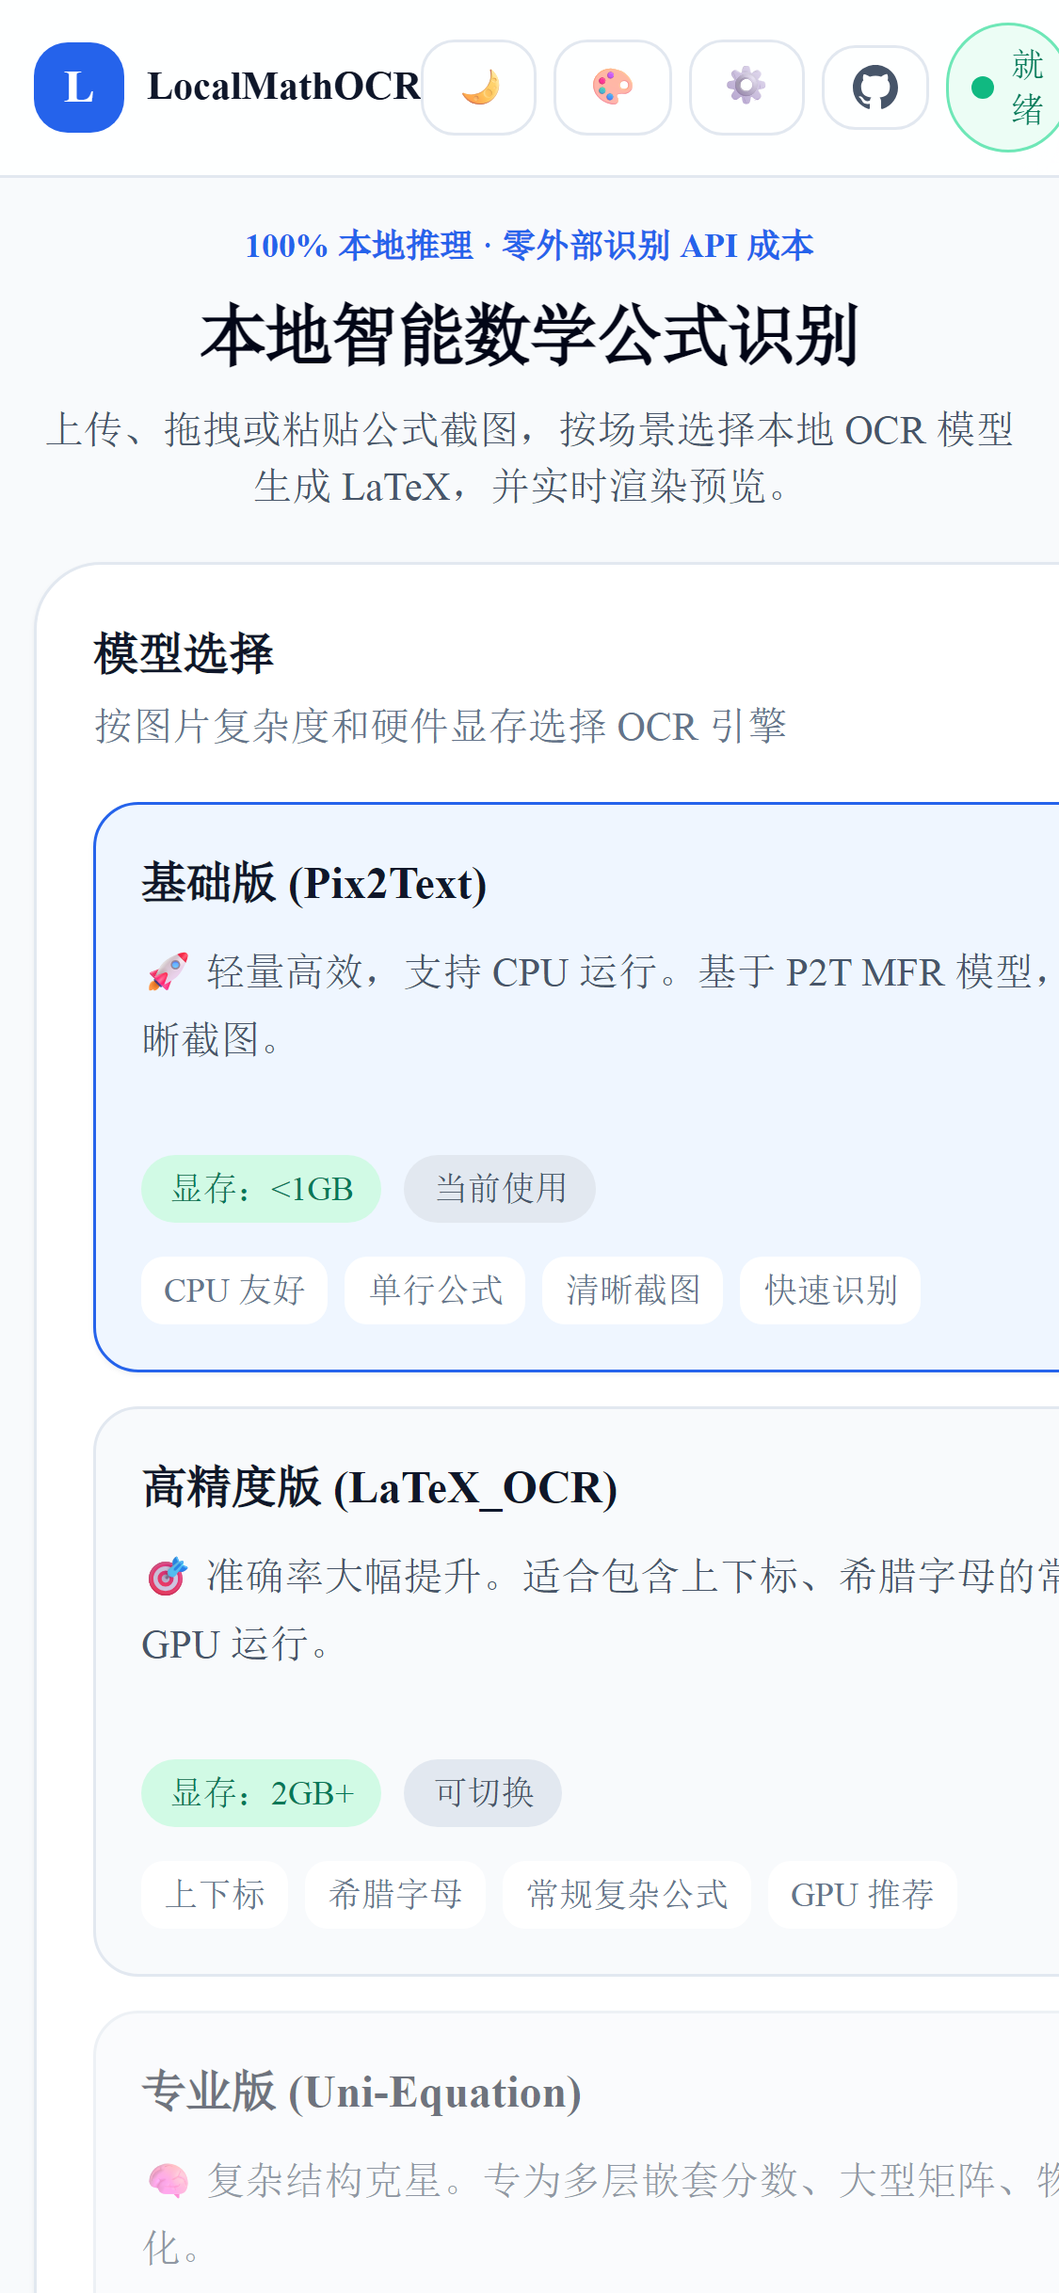
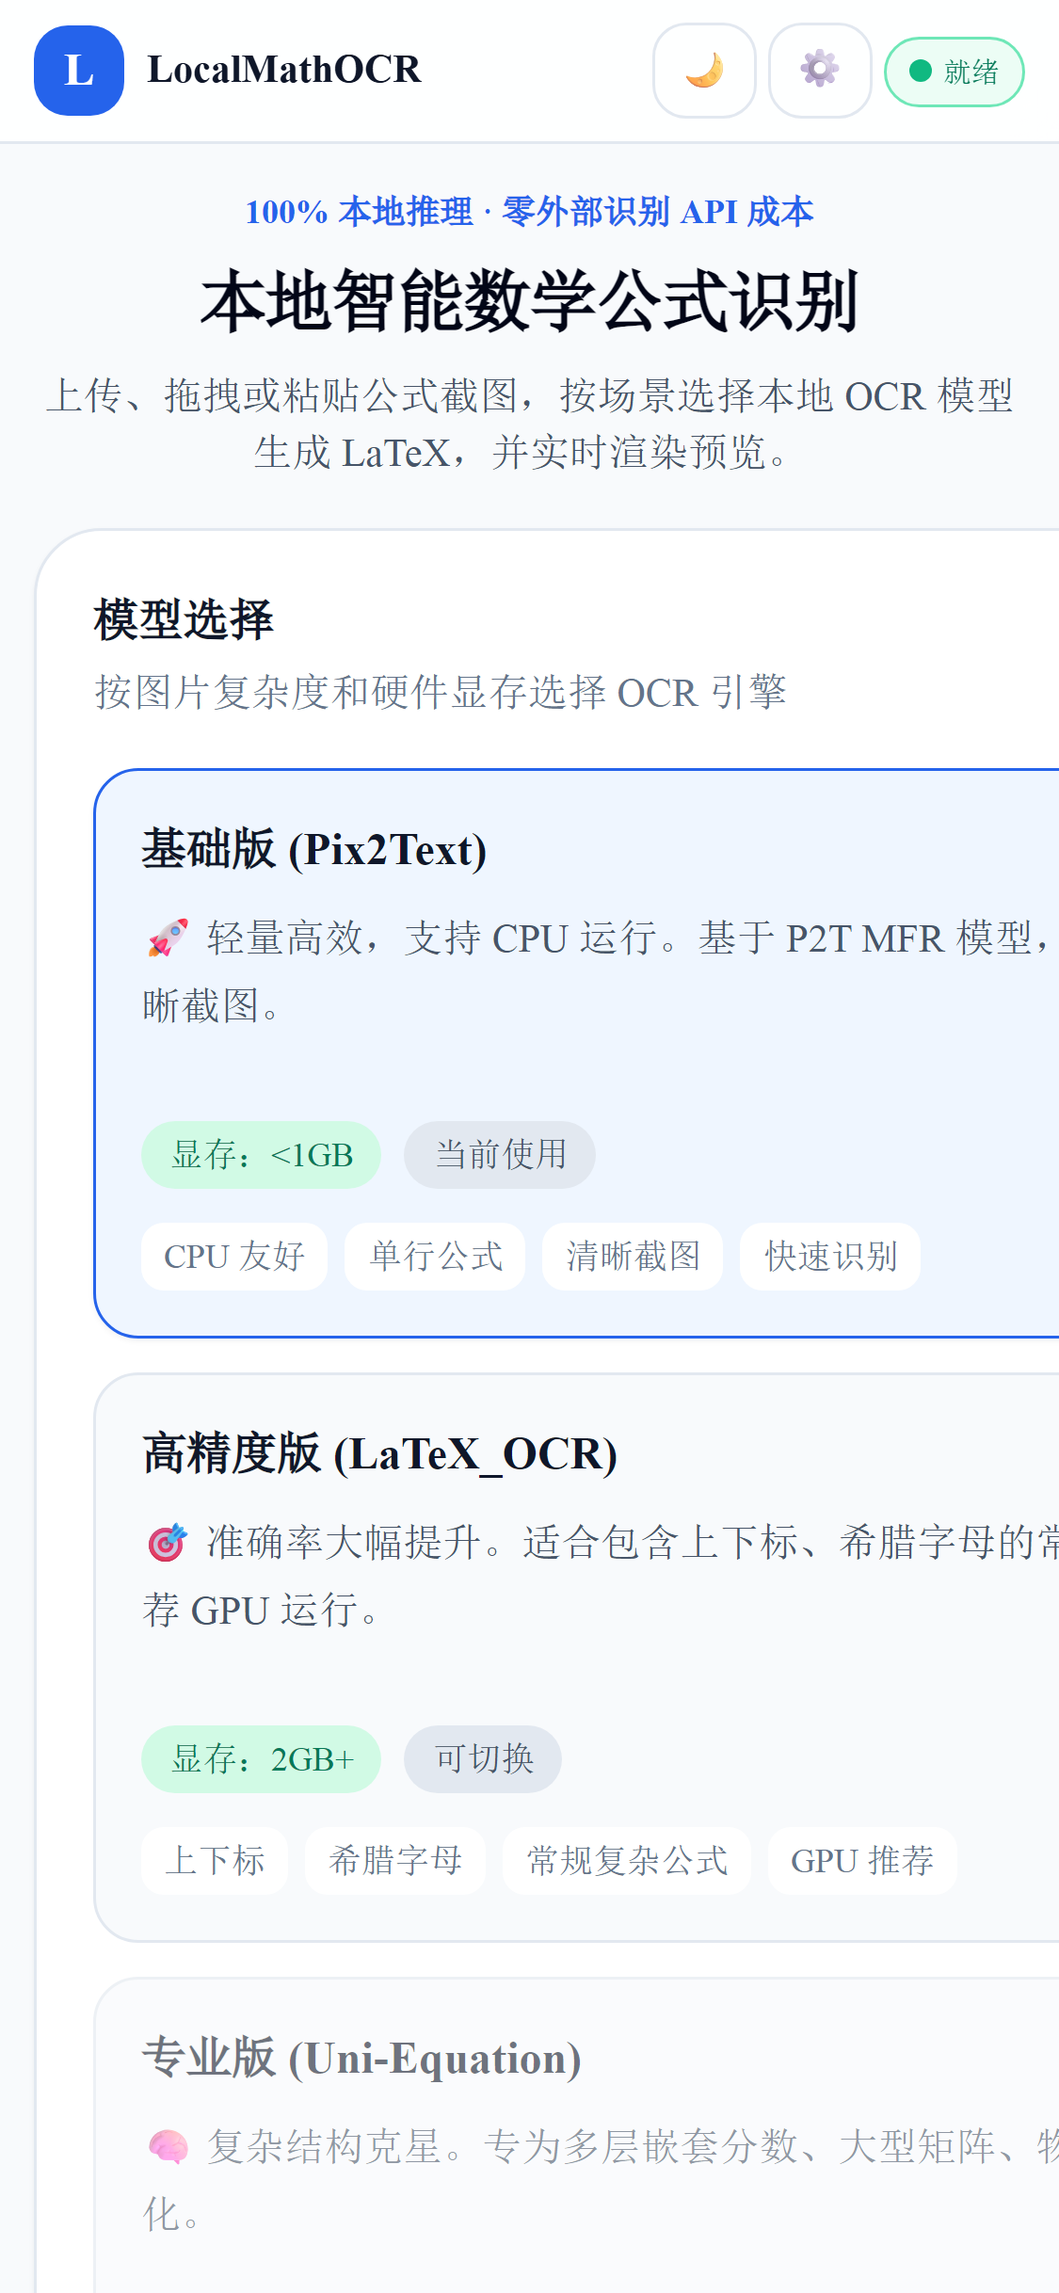
fix: mobile responsiveness for all components
- Header: hide theme/GitHub on mobile, shrink buttons and status badge
- FormulaWorkspace: flex-wrap toolbar, hide title on mobile, tighter gaps
- SettingsPanel: responsive HF mirror input width
- HistorySidebar: responsive padding, reduced max-height on mobile
- ComputePanel: smaller font sizes for operation buttons
- ModelSelector: responsive padding
- Remove outdated preview-export.png/svg and preview-main.svg
- Update screenshots for mobile layout

diff --git a/frontend/src/components/ComputePanel.tsx b/frontend/src/components/ComputePanel.tsx
@@ -1,0 +1,126 @@
+import { useState } from 'react';
+import katex from 'katex';
+import { computeFormula, type ComputeResult } from '../services/api';
+
+type Props = {
+  latex: string;
+  onInsert: (latex: string) => void;
+  onToast: (message: string) => void;
+};
+
+type Operation = {
+  id: string;
+  label: string;
+  icon: string;
+};
+
+const OPERATIONS: Operation[] = [
+  { id: 'expand', label: '展开', icon: '⊕' },
+  { id: 'factor', label: '因式分解', icon: '⊗' },
+  { id: 'simplify', label: '化简', icon: '≡' },
+  { id: 'solve', label: '求解', icon: 'x=' },
+  { id: 'diff', label: '求导', icon: "f'" },
+  { id: 'integrate', label: '积分', icon: '∫' },
+  { id: 'limit', label: '极限', icon: 'lim' },
+  { id: 'series', label: '级数', icon: '∑' },
+];
+
+function renderResult(latex: string): string {
+  try {
+    return katex.renderToString(latex, { throwOnError: false, displayMode: true, strict: 'ignore' });
+  } catch {
+    return latex;
+  }
+}
+
+export function ComputePanel({ latex, onInsert, onToast }: Props) {
+  const [result, setResult] = useState<ComputeResult | null>(null);
+  const [resultHtml, setResultHtml] = useState('');
+  const [computing, setComputing] = useState(false);
+  const [error, setError] = useState('');
+
+  async function handleCompute(op: string) {
+    if (!latex.trim()) {
+      onToast('请先输入公式');
+      return;
+    }
+    setComputing(true);
+    setError('');
+    setResult(null);
+    try {
+      const res = await computeFormula(latex, op);
+      setResult(res);
+      setResultHtml(renderResult(res.result_latex));
+    } catch (err) {
+      const msg = err instanceof Error ? err.message : '计算失败';
+      setError(msg);
+    } finally {
+      setComputing(false);
+    }
+  }
+
+  return (
+    <section className="rounded-3xl border border-slate-200 bg-white shadow-sm dark:border-slate-800 dark:bg-slate-900">
+      <div className="border-b border-slate-200 px-4 py-3 dark:border-slate-800 sm:px-5 sm:py-4">
+        <h3 className="text-sm font-bold text-slate-900 dark:text-white sm:text-base">数学计算</h3>
+      </div>
+      <div className="p-4 sm:p-5">
+        <div className="grid grid-cols-4 gap-2 sm:grid-cols-8">
+          {OPERATIONS.map((op) => (
+            <button
+              key={op.id}
+              onClick={() => handleCompute(op.id)}
+              disabled={computing}
+              className="flex flex-col items-center gap-1 rounded-xl border border-slate-200 px-2 py-2.5 text-xs transition hover:border-blue-300 hover:bg-blue-50 hover:text-blue-700 disabled:opacity-50 dark:border-slate-700 dark:hover:border-blue-600 dark:hover:bg-blue-900/30 dark:hover:text-blue-300"
+            >
+              <span className="font-mono text-sm sm:text-base">{op.icon}</span>
+              <span className="text-[10px] text-slate-600 dark:text-slate-300 sm:text-xs">{op.label}</span>
+            </button>
+          ))}
+        </div>
+
+        {computing && (
+          <div className="mt-4 flex items-center gap-2 text-sm text-slate-500">
+            <div className="h-4 w-4 animate-spin rounded-full border-2 border-blue-500 border-t-transparent" />
+            计算中...
+          </div>
+        )}
+
+        {error && (
+          <div className="mt-4 rounded-xl border border-red-200 bg-red-50 p-3 text-sm text-red-700">
+            {error}
+          </div>
+        )}
+
+        {result && (
+          <div className="mt-4 rounded-xl border border-slate-200 bg-slate-50 p-4 dark:border-slate-700 dark:bg-slate-800">
+            <div className="mb-2 text-xs font-medium text-slate-500 dark:text-slate-400">
+              {OPERATIONS.find((o) => o.id === result.operation)?.label ?? result.operation} 结果
+            </div>
+            <div
+              className="overflow-x-auto text-lg"
+              dangerouslySetInnerHTML={{ __html: resultHtml }}
+            />
+            <div className="mt-3 flex gap-2">
+              <button
+                onClick={() => onInsert(result.result_latex)}
+                className="rounded-lg bg-blue-600 px-3 py-1.5 text-xs font-medium text-white hover:bg-blue-700"
+              >
+                插入到编辑器
+              </button>
+              <button
+                onClick={async () => {
+                  await navigator.clipboard.writeText(result.result_latex);
+                  onToast('LaTeX 已复制');
+                }}
+                className="rounded-lg bg-slate-200 px-3 py-1.5 text-xs font-medium text-slate-700 hover:bg-slate-300 dark:bg-slate-700 dark:text-slate-200 dark:hover:bg-slate-600"
+              >
+                复制 LaTeX
+              </button>
+            </div>
+          </div>
+        )}
+      </div>
+    </section>
+  );
+}

diff --git a/frontend/src/components/Header.tsx b/frontend/src/components/Header.tsx
@@ -52,12 +52,12 @@ export function Header({ modelStatus, models, selectedModelId, dark, onToggleDar
           <a href="#recognize" className="hover:text-primary">识别</a>
           <a href="#editor" className="hover:text-primary">编辑器</a>
         </nav>
-        <div className="flex items-center gap-1.5 sm:gap-2">
-          <button onClick={onToggleDark} className="rounded-xl border border-slate-200 px-2.5 py-1.5 text-sm dark:border-slate-700 dark:text-slate-100 sm:px-3 sm:py-2">
+        <div className="flex items-center gap-1 sm:gap-2">
+          <button onClick={onToggleDark} className="rounded-xl border border-slate-200 px-2 py-1.5 text-sm dark:border-slate-700 dark:text-slate-100 sm:px-3 sm:py-2">
             {dark ? '☀' : '🌙'}
           </button>
 
-          <div ref={themeRef} className="relative">
+          <div ref={themeRef} className="relative hidden sm:block">
             <button
               onClick={() => setShowTheme(!showTheme)}
               className="rounded-xl border border-slate-200 px-2.5 py-1.5 text-sm text-slate-600 hover:border-primary hover:text-primary dark:border-slate-700 dark:text-slate-300"
@@ -103,7 +103,7 @@ export function Header({ modelStatus, models, selectedModelId, dark, onToggleDar
 
           <button
             onClick={onOpenSettings}
-            className="rounded-xl border border-slate-200 px-2.5 py-1.5 text-sm dark:border-slate-700 dark:text-slate-300"
+            className="rounded-xl border border-slate-200 px-2 py-1.5 text-sm dark:border-slate-700 dark:text-slate-300 sm:px-2.5 sm:py-2"
             title="配置设置"
           >
             ⚙
@@ -113,13 +113,13 @@ export function Header({ modelStatus, models, selectedModelId, dark, onToggleDar
             href="https://github.com/xiaoyeTC/LocalMathOCR"
             target="_blank"
             rel="noopener noreferrer"
-            className="rounded-xl border border-slate-200 px-2.5 py-1.5 text-sm text-slate-600 hover:border-primary hover:text-primary dark:border-slate-700 dark:text-slate-300"
+            className="hidden rounded-xl border border-slate-200 px-2.5 py-1.5 text-sm text-slate-600 hover:border-primary hover:text-primary dark:border-slate-700 dark:text-slate-300 sm:block"
             title="GitHub"
           >
             <svg className="h-4 w-4" viewBox="0 0 16 16" fill="currentColor"><path d="M8 0C3.58 0 0 3.58 0 8c0 3.54 2.29 6.53 5.47 7.59.4.07.55-.17.55-.38 0-.19-.01-.82-.01-1.49-2.01.37-2.53-.49-2.69-.94-.09-.23-.48-.94-.82-1.13-.28-.15-.68-.52-.01-.53.63-.01 1.08.58 1.23.82.72 1.21 1.87.87 2.33.66.07-.52.28-.87.51-1.07-1.78-.2-3.64-.89-3.64-3.95 0-.87.31-1.59.82-2.15-.08-.2-.36-1.02.08-2.12 0 0 .67-.21 2.2.82.64-.18 1.32-.27 2-.27.68 0 1.36.09 2 .27 1.53-1.04 2.2-.82 2.2-.82.44 1.1.16 1.92.08 2.12.51.56.82 1.27.82 2.15 0 3.07-1.87 3.75-3.65 3.95.29.25.54.73.54 1.48 0 1.07-.01 1.93-.01 2.2 0 .21.15.46.55.38A8.013 8.013 0 0016 8c0-4.42-3.58-8-8-8z"/></svg>
           </a>
 
-          <div className={`flex items-center gap-1.5 rounded-full border px-2 py-1.5 text-xs font-medium sm:gap-2 sm:px-3 sm:py-2 ${isActive ? 'border-emerald-300 bg-emerald-50 text-emerald-700 dark:border-emerald-700 dark:bg-emerald-950/50 dark:text-emerald-300' : 'border-slate-200 bg-slate-50 text-slate-600 dark:border-slate-700 dark:bg-slate-800 dark:text-slate-300'}`} title={modelStatus.message}>
+          <div className={`flex items-center gap-1 rounded-full border px-2 py-1 text-[10px] font-medium sm:gap-2 sm:px-3 sm:py-2 sm:text-xs ${isActive ? 'border-emerald-300 bg-emerald-50 text-emerald-700 dark:border-emerald-700 dark:bg-emerald-950/50 dark:text-emerald-300' : 'border-slate-200 bg-slate-50 text-slate-600 dark:border-slate-700 dark:bg-slate-800 dark:text-slate-300'}`} title={modelStatus.message}>
             <span className={`inline-block h-2 w-2 shrink-0 rounded-full ${statusClass}`} />
             <span className="hidden sm:inline">{modelName}</span>
             <span className="hidden text-slate-400 dark:text-slate-500 sm:inline">·</span>

diff --git a/frontend/src/components/FormulaWorkspace.tsx b/frontend/src/components/FormulaWorkspace.tsx
@@ -476,9 +476,9 @@ export function FormulaWorkspace({ value, onChange, onCopy, onToast }: Props) {
       <style>{'.formula-preview-font .katex, .formula-preview-font .katex * { font-family: var(--formula-font-family) !important; }'}</style>
 
       {/* Toolbar */}
-      <div className="flex items-center gap-2 border-b border-slate-200 px-3 py-2 dark:border-slate-800 sm:px-5 sm:py-3">
-        <div className="flex items-center gap-2">
-          <h3 className="text-sm font-bold text-slate-900 dark:text-white sm:text-base">公式工作区</h3>
+      <div className="flex flex-wrap items-center gap-1.5 border-b border-slate-200 px-2.5 py-2 dark:border-slate-800 sm:flex-nowrap sm:gap-2 sm:px-5 sm:py-3">
+        <div className="flex items-center gap-1.5 sm:gap-2">
+          <h3 className="hidden text-sm font-bold text-slate-900 dark:text-white sm:block sm:text-base">公式工作区</h3>
           <div className="flex rounded-lg border border-slate-200 dark:border-slate-700">
             <button onClick={() => setMode('visual')} className={`px-2 py-1 text-xs font-medium transition-colors ${mode === 'visual' ? 'bg-blue-600 text-white' : 'text-slate-600 hover:bg-slate-100 dark:text-slate-300 dark:hover:bg-slate-800'}`}>可视化</button>
             <button onClick={() => setMode('source')} className={`px-2 py-1 text-xs font-medium transition-colors ${mode === 'source' ? 'bg-blue-600 text-white' : 'text-slate-600 hover:bg-slate-100 dark:text-slate-300 dark:hover:bg-slate-800'}`}>源码</button>
@@ -502,7 +502,7 @@ export function FormulaWorkspace({ value, onChange, onCopy, onToast }: Props) {
           )}
         </div>
 
-        <div className="ml-auto flex shrink-0 items-center gap-1.5 sm:gap-2">
+        <div className="ml-auto flex shrink-0 items-center gap-1 sm:gap-2">
           <select value={exportFont} onChange={(e) => setExportFont(e.target.value)} className="hidden rounded-lg border border-slate-200 bg-white px-2 py-1.5 text-xs text-slate-700 dark:border-slate-700 dark:bg-slate-800 dark:text-slate-200 sm:block sm:text-sm" title="导出字体">
             {EXPORT_FONTS.map((f) => <option key={f.value} value={f.value}>{f.label}</option>)}
           </select>

diff --git a/frontend/src/components/SettingsPanel.tsx b/frontend/src/components/SettingsPanel.tsx
@@ -222,7 +222,7 @@ export function SettingsPanel({ onClose }: Props) {
                       <input type="text" value={String(settings.p2t_mfr_model ?? '')} onChange={(e) => setSettings((s) => s ? { ...s, p2t_mfr_model: e.target.value } : s)} className="w-32 rounded-lg border border-slate-200 bg-white px-2 py-1.5 text-right text-sm dark:border-slate-600 dark:bg-slate-700 dark:text-slate-100" />
                     </SettingRow>
                     <SettingRow label="HF 镜像" desc="HuggingFace 镜像地址" icon="🌐">
-                      <input type="text" value={String(settings.hf_endpoint ?? '')} onChange={(e) => setSettings((s) => s ? { ...s, hf_endpoint: e.target.value } : s)} className="w-48 rounded-lg border border-slate-200 bg-white px-2 py-1.5 text-right text-sm dark:border-slate-600 dark:bg-slate-700 dark:text-slate-100" />
+                      <input type="text" value={String(settings.hf_endpoint ?? '')} onChange={(e) => setSettings((s) => s ? { ...s, hf_endpoint: e.target.value } : s)} className="w-28 rounded-lg border border-slate-200 bg-white px-2 py-1.5 text-right text-xs dark:border-slate-600 dark:bg-slate-700 dark:text-slate-100 sm:w-48 sm:text-sm" />
                     </SettingRow>
                     <SettingRow label="启用 Pandoc" desc="支持 Word/PDF/HTML 格式导出" icon="📄">
                       <Toggle value={!!settings.enable_pandoc} onChange={(v) => setSettings((s) => s ? { ...s, enable_pandoc: v } : s)} />

diff --git a/frontend/src/components/HistorySidebar.tsx b/frontend/src/components/HistorySidebar.tsx
@@ -9,9 +9,9 @@ type Props = {
 
 export function HistorySidebar({ history, onSelect, onDelete, onClear }: Props) {
   return (
-    <aside className="rounded-3xl border border-slate-200 bg-white p-5 shadow-sm dark:border-slate-800 dark:bg-slate-900">
-      <div className="mb-4 flex items-center justify-between gap-3">
-        <h3 className="font-bold text-slate-900 dark:text-white">历史记录</h3>
+    <aside className="rounded-3xl border border-slate-200 bg-white p-4 shadow-sm dark:border-slate-800 dark:bg-slate-900 sm:p-5">
+      <div className="mb-3 flex items-center justify-between gap-3 sm:mb-4">
+        <h3 className="text-sm font-bold text-slate-900 dark:text-white sm:text-base">历史记录</h3>
         <div className="flex items-center gap-2">
           <span className="text-xs text-slate-500">{history.length} 条</span>
           <button
@@ -23,7 +23,7 @@ export function HistorySidebar({ history, onSelect, onDelete, onClear }: Props) 
           </button>
         </div>
       </div>
-      <div className="max-h-[620px] space-y-3 overflow-auto pr-1">
+      <div className="max-h-[400px] space-y-2 overflow-auto pr-1 sm:max-h-[620px] sm:space-y-3">
         {history.length === 0 && <p className="text-sm text-slate-500 dark:text-slate-400">暂无识别历史</p>}
         {history.map((item) => (
           <div key={item.id} className="rounded-2xl border border-slate-200 p-3 dark:border-slate-800">

diff --git a/frontend/src/components/ModelSelector.tsx b/frontend/src/components/ModelSelector.tsx
@@ -42,7 +42,7 @@ function displayModel(model: OcrModelMetadata) {
 export function ModelSelector({ models, selectedModelId, disabled, onChange }: Props) {
   if (models.length === 0) {
     return (
-      <section className="rounded-3xl border border-slate-200 bg-white p-5 shadow-sm dark:border-slate-800 dark:bg-slate-900">
+    <section className="rounded-3xl border border-slate-200 bg-white p-4 shadow-sm dark:border-slate-800 dark:bg-slate-900 sm:p-5">
         <div className="text-sm font-semibold text-slate-900 dark:text-white">模型选择</div>
         <p className="mt-2 text-sm text-slate-500 dark:text-slate-400">正在加载可用模型列表...</p>
       </section>

diff --git a/docs/compose/plans/2026-06-14-magnifier-history-config.md b/docs/compose/plans/2026-06-14-magnifier-history-config.md
@@ -1,0 +1,87 @@
+# Mobile Magnifier, History Isolation, Config Panel — Implementation Plan
+
+> **For agentic workers:** Use compose:subagent or compose:execute to implement task-by-task.
+
+**Goal:** Add mobile crop magnifier, per-browser history isolation, and a frontend config panel with admin auth.
+
+**Architecture:**
+1. Magnifier: Custom touch overlay on ImageCropper, tracks finger position, shows zoomed canvas
+2. History: Session ID via localStorage UUID, `X-Session-ID` header, `session_id` column in DB
+3. Config: Admin password in `.env`, `/api/settings` endpoints, settings panel in Header ⚙
+
+**Tech Stack:** React, TypeScript, Tailwind, FastAPI, SQLAlchemy, Pydantic
+
+---
+
+### Task 1: Mobile Crop Magnifier
+
+**Files:**
+- Modify: `frontend/src/components/ImageCropper.tsx`
+
+- [ ] Add magnifier state (`magnifierPos`, `showMagnifier`) and touch event handlers
+- [ ] Create `MagnifierOverlay` component that renders a circular zoomed view
+- [ ] Attach `onTouchStart`/`onTouchMove`/`onTouchEnd` to the crop container
+- [ ] Use canvas to draw zoomed region (2x scale) centered on touch point
+- [ ] Position magnifier above the touch point (offset upward so finger doesn't block it)
+- [ ] Only show on touch devices (`'ontouchstart' in window`)
+
+### Task 2: User-Isolated History (Backend)
+
+**Files:**
+- Modify: `backend/app/services/db.py` — add `session_id` column
+- Modify: `backend/app/routers/history.py` — filter by session_id from header
+- Modify: `backend/app/routers/ocr.py` — pass session_id when creating history
+
+- [ ] Add `session_id: Mapped[str]` column to `HistoryRecord`
+- [ ] Update `create_history()` to accept `session_id` parameter
+- [ ] Update `list_history()` to filter by `session_id`
+- [ ] Update `clear_history()` and `delete_history()` to filter by `session_id`
+- [ ] Extract `X-Session-ID` header in history router endpoints
+- [ ] Pass `session_id` from OCR router when creating history after recognition
+
+### Task 3: User-Isolated History (Frontend)
+
+**Files:**
+- Create: `frontend/src/stores/sessionStore.ts` — session ID management
+- Modify: `frontend/src/services/api.ts` — add session header to requests
+- Modify: `frontend/src/App.tsx` — initialize session
+
+- [ ] Generate UUID on first visit, store in `localStorage` as `localmathocr-session-id`
+- [ ] Create `useSessionStore` with `sessionId` state
+- [ ] Add `X-Session-ID` header to all API requests in `request()` helper
+- [ ] Initialize session on app mount
+
+### Task 4: Admin Auth Backend
+
+**Files:**
+- Modify: `backend/app/config.py` — add `admin_password` field
+- Create: `backend/app/routers/settings.py` — settings API
+
+- [ ] Add `admin_password: str = ""` to Settings class
+- [ ] Create `POST /api/auth/admin` endpoint — validate password, return admin session token
+- [ ] Create `GET /api/settings` endpoint — return all settings (user-visible subset for non-admin)
+- [ ] Create `PUT /api/settings` endpoint — update settings (admin only, validated by token)
+- [ ] Admin token = HMAC hash of password + session_id, stored in memory with TTL
+- [ ] Middleware/helper to verify admin token from `X-Admin-Token` header
+
+### Task 5: Admin Auth Frontend
+
+**Files:**
+- Create: `frontend/src/stores/settingsStore.ts` — settings state
+- Create: `frontend/src/components/SettingsPanel.tsx` — settings UI
+- Modify: `frontend/src/components/Header.tsx` — integrate settings panel
+
+- [ ] Add admin login dialog (password input) in settings panel
+- [ ] User settings section: preprocess toggle, default model selector
+- [ ] Admin settings section (only visible when admin): device mode, preload models, model enable/disable, HF endpoint, etc.
+- [ ] Save button calls `PUT /api/settings` with admin token
+- [ ] Admin token stored in sessionStorage (cleared on tab close)
+
+### Task 6: Integration & Testing
+
+- [ ] Test magnifier on mobile viewport
+- [ ] Test history isolation across browser tabs
+- [ ] Test admin login/logout flow
+- [ ] Test settings save/reload
+- [ ] Verify non-admin users can't see admin settings
+- [ ] `npm run build` passes
